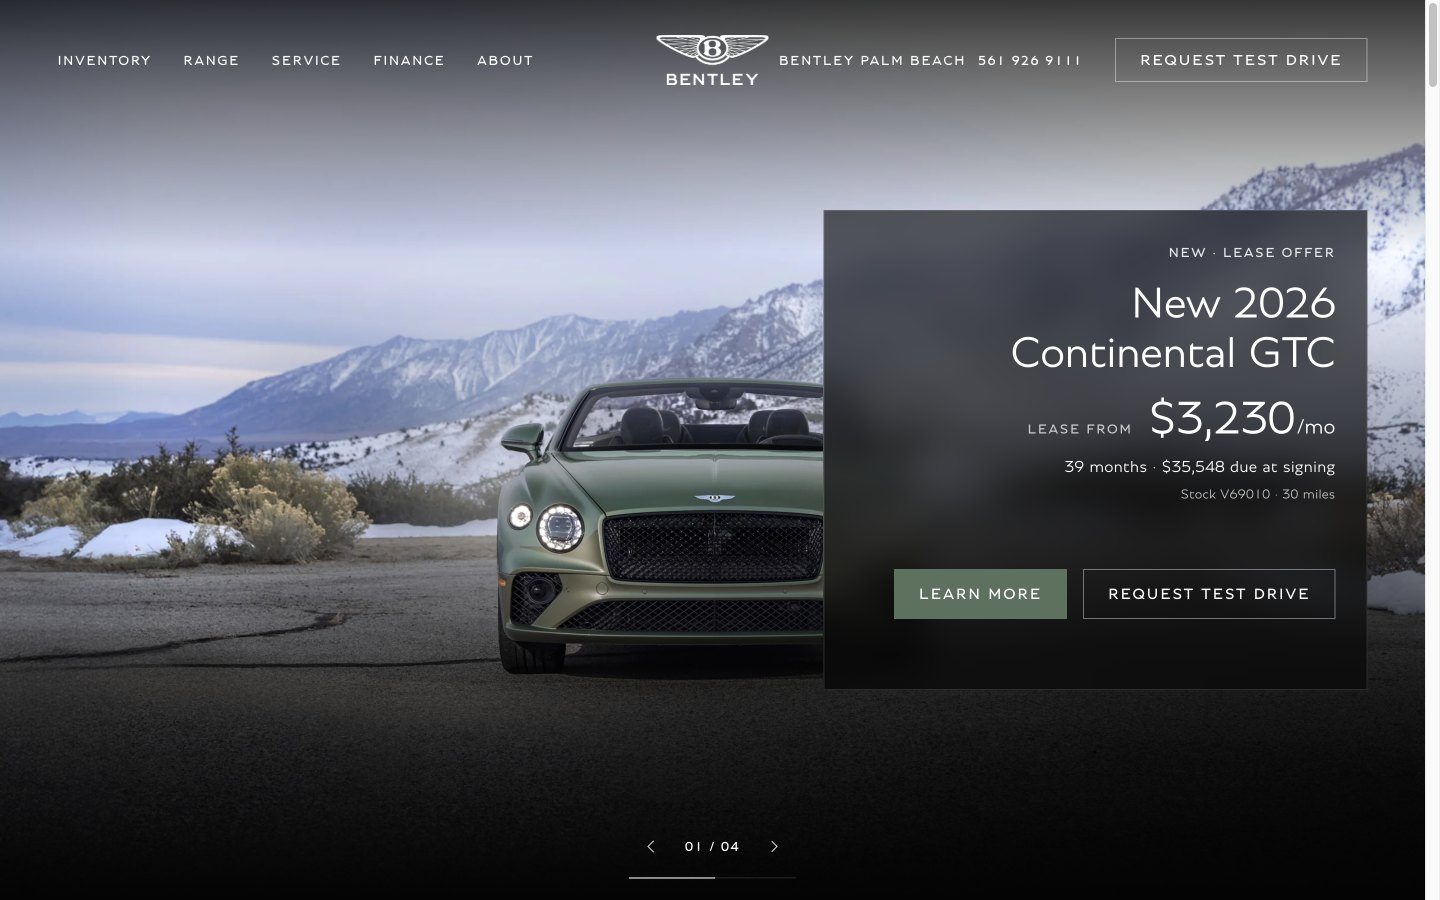
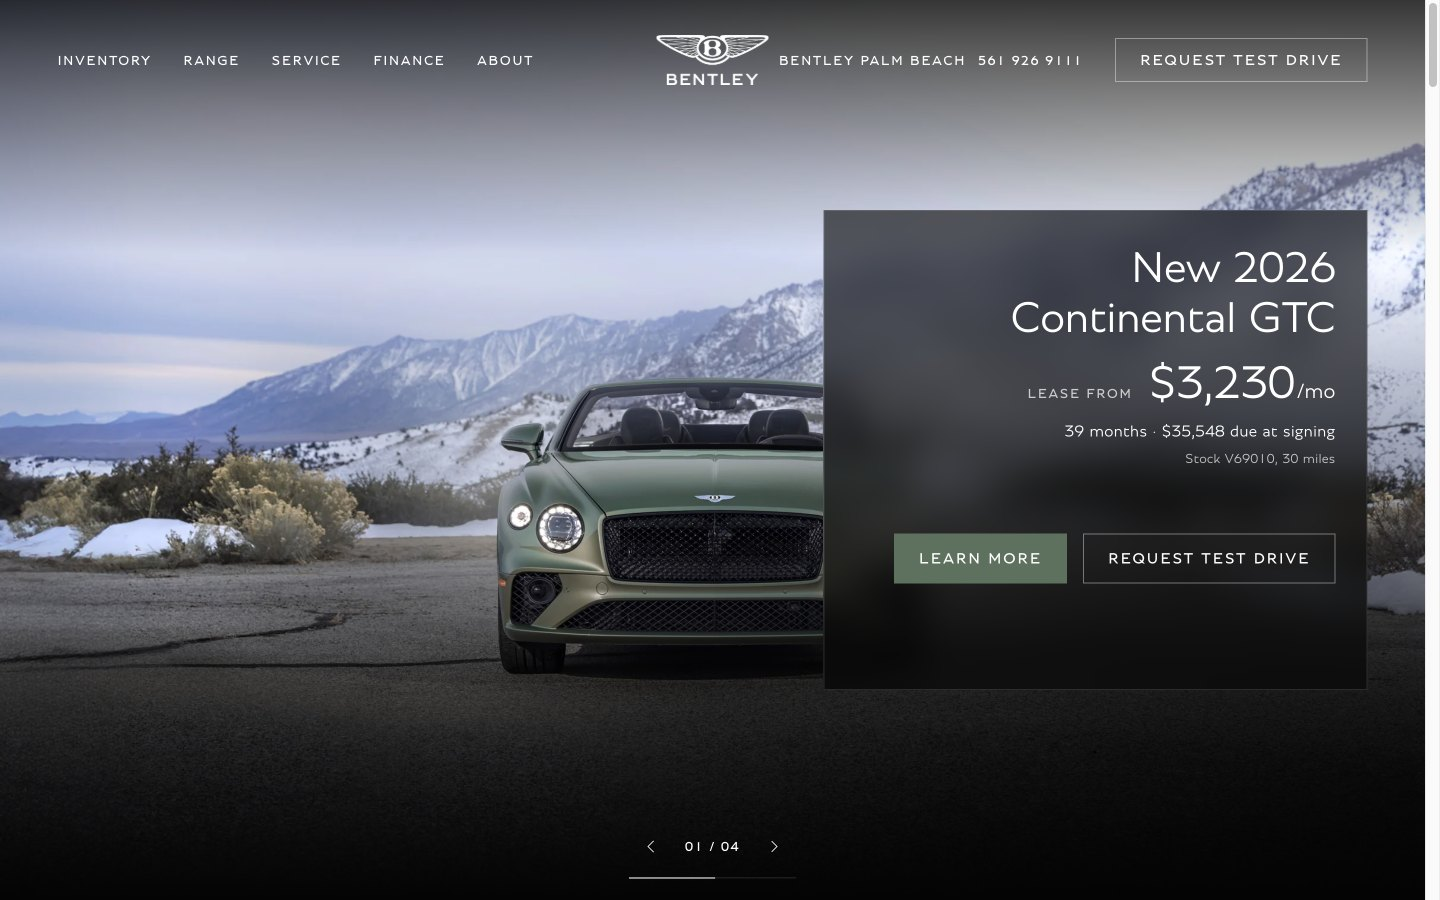
index4: taste-skill pass — eyebrows down to three, one dot per line, no dashes in labels; d4 stills recaptured

Changed region(s): [[0.6875, 0.28, 0.9375, 0.56], [0.5938, 0.5911, 0.9062, 0.7156]]

diff --git a/index4.html b/index4.html
@@ -3,14 +3,14 @@
 <head>
 <meta charset="utf-8">
 <meta name="viewport" content="width=device-width, initial-scale=1">
-<title>Bentley Palm Beach — Official Bentley Retailer, West Palm Beach</title>
+<title>Bentley Palm Beach, Official Bentley Retailer in West Palm Beach</title>
 <meta name="description" content="Bentley Palm Beach, the official Bentley retailer on Okeechobee Boulevard, West Palm Beach: Continental GT, Continental GT Convertible, Flying Spur and Bentayga, certified pre-owned, Bentley-trained service and genuine parts.">
 <meta name="theme-color" content="#040404">
 <link rel="preload" href="assets/fonts/Bentley-Light.woff2" as="font" type="font/woff2" crossorigin>
 <link rel="preload" href="assets/fonts/Bentley-Regular.woff2" as="font" type="font/woff2" crossorigin>
 <link rel="preload" href="assets/bm/2026/gtc-mountains.webp" as="image">
-<link rel="stylesheet" href="css/system.css?v=20260919o">
-<link rel="stylesheet" href="css/index4.css?v=20260919o">
+<link rel="stylesheet" href="css/system.css?v=20260921b">
+<link rel="stylesheet" href="css/index4.css?v=20260921b">
 <script>
   /* Motion is opt-in from the first paint: if the script never arrives, or the
      visitor asked for less motion, the page is simply its finished composition. */
@@ -44,7 +44,7 @@
       </ul>
     </nav>
 
-    <a class="mh__mark" href="https://www.bramanbentleypalmbeach.com/" aria-label="Bentley Palm Beach — home">
+    <a class="mh__mark" href="https://www.bramanbentleypalmbeach.com/" aria-label="Bentley Palm Beach, home">
       <img src="assets/img/logo-negative.png" alt="Bentley" width="112" height="50">
     </a>
 
@@ -61,8 +61,8 @@
   <!-- 2 — the lit scene, in four slides. The retailer's current offers, the
        copy taken from its own banners, the photographs Bentley's; the fourth
        slide is the Torcal film. One crossfade; the visitor keeps the transport. -->
-  <section class="hero" id="top" data-reveal aria-roledescription="carousel" aria-label="Bentley Palm Beach — current offers">
-    <h1 class="sr-only">Bentley Palm Beach — Official Bentley Retailer, West Palm Beach</h1>
+  <section class="hero" id="top" data-reveal aria-roledescription="carousel" aria-label="Bentley Palm Beach, current offers">
+    <h1 class="sr-only">Bentley Palm Beach, Official Bentley Retailer in West Palm Beach</h1>
     <div class="hero__slides recede">
     <article class="slide is-active slide--offer slide--right slide--gtc" aria-roledescription="slide" aria-label="1 of 4">
       <div class="slide__field">
@@ -70,10 +70,9 @@
       </div>
       <div class="hero__lockup slide__lockup slide__lockup--glass">
         <div class="slide__glass box">
-        <p class="label step" style="--i:0">New · Lease offer</p>
         <h2 class="hero__title step" style="--i:1">New 2026<br>Continental GTC</h2>
         <p class="slide__lease step" style="--i:2"><span class="slide__from">Lease from</span><strong class="slide__per">$3,230<small>/mo</small></strong></p>
-        <p class="slide__terms step" style="--i:3">39 months · $35,548 due at signing<span class="slide__stock">Stock V69010 · 30 miles</span></p>
+        <p class="slide__terms step" style="--i:3">39 months · $35,548 due at signing<span class="slide__stock">Stock V69010, 30 miles</span></p>
         <div class="actions step" style="--i:4">
           <a class="btn" href="https://www.bramanbentleypalmbeach.com/search/new-continental-gtc-west-palm-beach-fl/?cy=33409&amp;md=4607&amp;tp=new">Learn more</a>
           <a class="btn btn--line" href="https://www.bramanbentleypalmbeach.com/schedule-new-vehicle-test-drive/">Request test drive</a>
@@ -87,10 +86,9 @@
       </div>
       <div class="hero__lockup slide__lockup slide__lockup--glass">
         <div class="slide__glass box">
-        <p class="label step" style="--i:0">New · Lease offer</p>
         <h2 class="hero__title step" style="--i:1">2026<br>Continental GT</h2>
         <p class="slide__lease step" style="--i:2"><span class="slide__from">Lease from</span><strong class="slide__per">$2,722<small>/mo</small></strong></p>
-        <p class="slide__terms step" style="--i:3">39 months · $32,141 due at signing<span class="slide__stock">Stock V67976 · 128 miles</span></p>
+        <p class="slide__terms step" style="--i:3">39 months · $32,141 due at signing<span class="slide__stock">Stock V67976, 128 miles</span></p>
         <div class="actions step" style="--i:4">
           <a class="btn" href="https://www.bramanbentleypalmbeach.com/search/new-continental-gt-west-palm-beach-fl/?cy=33409&amp;md=335&amp;tp=new">Learn more</a>
           <a class="btn btn--line" href="https://www.bramanbentleypalmbeach.com/schedule-new-vehicle-test-drive/">Request test drive</a>
@@ -104,10 +102,9 @@
       </div>
       <div class="hero__lockup slide__lockup slide__lockup--glass">
         <div class="slide__glass box">
-        <p class="label step" style="--i:0">New · Lease offer</p>
         <h2 class="hero__title step" style="--i:1">New 2026<br>Bentley Flying Spur</h2>
         <p class="slide__lease step" style="--i:2"><span class="slide__from">Lease from</span><strong class="slide__per">$2,622<small>/mo</small></strong></p>
-        <p class="slide__terms step" style="--i:3">39 months · $29,390 due at signing<span class="slide__stock">Stock V69319 · 30 miles</span></p>
+        <p class="slide__terms step" style="--i:3">39 months · $29,390 due at signing<span class="slide__stock">Stock V69319, 30 miles</span></p>
         <div class="actions step" style="--i:4">
           <a class="btn" href="https://www.bramanbentleypalmbeach.com/search/new-bentley-flying-spur-west-palm-beach-fl/?cy=33409&amp;md=2837&amp;tp=new">Learn more</a>
           <a class="btn btn--line" href="https://www.bramanbentleypalmbeach.com/schedule-new-vehicle-test-drive/">Request test drive</a>
@@ -120,7 +117,6 @@
         <video class="hero__img" muted loop playsinline preload="none" poster="assets/bm/2026/torcal-rear.webp" data-src="assets/bm/2026/torcal-hero.mp4" aria-label="The Bentley Torcal reveal film"></video>
       </div>
       <div class="hero__lockup slide__lockup">
-        <p class="label step" style="--i:0">Coming soon</p>
         <h2 class="hero__title step" style="--i:1">Torcal</h2>
         <p class="lead step" style="--i:2">Bentley's first electric masterpiece. Power meets timeless craftsmanship.</p>
         <div class="actions step" style="--i:3">
@@ -144,7 +140,6 @@
     <div class="page recede">
       <div class="head">
         <div class="head__main">
-          <p class="label step" style="--i:0">The range</p>
           <h2 class="h2 step" id="range-h" style="--i:1">Four model lines,<br>each built to order</h2>
         </div>
         <div class="head__aside">
@@ -194,7 +189,7 @@
        stage; a caption and nothing asked. The pause before the atelier. -->
   <section class="scene disp parallax" id="mulliner" data-reveal aria-labelledby="mul-h">
     <div class="scene__pic">
-      <img src="assets/bm/2026/gt-lineup.webp" alt="Five Continental GTs of the Bespoke Series by Mulliner on a dark stage — orange, green, blue, red and white — each with a contrasting stripe." width="2400" height="1292" loading="lazy" decoding="async">
+      <img src="assets/bm/2026/gt-lineup.webp" alt="Five Continental GTs of the Bespoke Series by Mulliner on a dark stage, orange, green, blue, red and white, each with a contrasting stripe." width="2400" height="1292" loading="lazy" decoding="async">
     </div>
     <div class="scene__body">
       <div class="scene__copy">
@@ -208,7 +203,6 @@
        cabin standing on its own at the right — nothing over the picture. -->
   <section class="split" id="commission" data-reveal aria-labelledby="com-h">
     <div class="split__copy">
-      <p class="label step" style="--i:0">Commissioning</p>
       <h2 class="h2 step" id="com-h" style="--i:1">Specified by you,<br>built in Crewe</h2>
       <p class="body step" style="--i:2">Hide, veneer, stitching and the Mulliner options are decided with our specialists here, and the same team is with you from the first sketch to handover.</p>
       <div class="actions step" style="--i:3">
@@ -234,7 +228,7 @@
         <div class="plate po-plate box">
           <p class="label step" style="--i:0"><span>Certified Pre-Owned</span><span class="po-count"><span class="po-now">01</span> / 04</span></p>
           <h2 class="h2 step" style="--i:1" id="po-h">2025 Bentayga V8</h2>
-          <p class="po-facts step" style="--i:2">Marlin over Linen · 3,548 miles · Stock VC-P35187</p>
+          <p class="po-facts step" style="--i:2">Marlin over Linen · 3,548 miles<br>Stock VC-P35187</p>
           <p class="po-price step" style="--i:3">$239,603</p>
           <p class="body step" style="--i:4">Inspected and prepared by Bentley-trained technicians to the factory checklist; history recorded in full.</p>
           <div class="actions step" style="--i:5">
@@ -248,7 +242,7 @@
         <div class="plate po-plate box">
           <p class="label step" style="--i:0"><span>Certified Pre-Owned</span><span class="po-count"><span class="po-now">02</span> / 04</span></p>
           <h2 class="h2 step" style="--i:1" >2026 Continental GT V8</h2>
-          <p class="po-facts step" style="--i:2">Dark Sapphire over Linen · 285 miles · Stock V67976</p>
+          <p class="po-facts step" style="--i:2">Dark Sapphire over Linen · 285 miles<br>Stock V67976</p>
           <p class="po-price step" style="--i:3">$278,603</p>
           <p class="body step" style="--i:4">Inspected and prepared by Bentley-trained technicians to the factory checklist; history recorded in full.</p>
           <div class="actions step" style="--i:5">
@@ -262,7 +256,7 @@
         <div class="plate po-plate box">
           <p class="label step" style="--i:0"><span>Certified Pre-Owned</span><span class="po-count"><span class="po-now">03</span> / 04</span></p>
           <h2 class="h2 step" style="--i:1" >2026 Flying Spur</h2>
-          <p class="po-facts step" style="--i:2">Moonbeam over Linen · 349 miles · Stock VC-P35636</p>
+          <p class="po-facts step" style="--i:2">Moonbeam over Linen · 349 miles<br>Stock VC-P35636</p>
           <p class="po-price step" style="--i:3">$293,738</p>
           <p class="body step" style="--i:4">Inspected and prepared by Bentley-trained technicians to the factory checklist; history recorded in full.</p>
           <div class="actions step" style="--i:5">
@@ -276,7 +270,7 @@
         <div class="plate po-plate box">
           <p class="label step" style="--i:0"><span>Certified Pre-Owned</span><span class="po-count"><span class="po-now">04</span> / 04</span></p>
           <h2 class="h2 step" style="--i:1" >2024 Continental GTC Edition 8</h2>
-          <p class="po-facts step" style="--i:2">Magnolia over Magnolia · 12,645 miles · Stock VC-30281A</p>
+          <p class="po-facts step" style="--i:2">Magnolia over Magnolia · 12,645 miles<br>Stock VC-30281A</p>
           <p class="po-price step" style="--i:3">$259,603</p>
           <p class="body step" style="--i:4">Inspected and prepared by Bentley-trained technicians to the factory checklist; history recorded in full.</p>
           <div class="actions step" style="--i:5">
@@ -317,8 +311,7 @@
       <div class="page">
         <div class="head">
           <div class="head__main">
-            <p class="label step" style="--i:0">Inventory</p>
-            <h2 class="h2 step" id="stock-h" style="--i:1">New Bentley<br>in stock</h2>
+              <h2 class="h2 step" id="stock-h" style="--i:1">New Bentley<br>in stock</h2>
           </div>
           <div class="head__aside stock__aside">
             <p class="body step" style="--i:2">Continental GT, Flying Spur and Bentayga, each built to a specification already settled. Every one can be seen, driven and delivered from Okeechobee Boulevard.</p>
@@ -333,12 +326,12 @@
         </div>
       </div>
 
-      <ul class="stock__rail" tabindex="0" aria-label="New Bentley in stock — drag or scroll sideways">
+      <ul class="stock__rail" tabindex="0" aria-label="New Bentley in stock; drag or scroll sideways">
         <li class="stock__car step" style="--i:2">
           <a href="https://www.bramanbentleypalmbeach.com/auto/new-2026-bentley-continental-gt-s/121718000/" draggable="false">
             <img src="assets17/img/stk-2.webp" alt="Continental GT S, front three-quarter, on a pale studio ground." width="1200" height="800" loading="lazy" decoding="async" draggable="false">
             <span class="stock__row"><span class="stock__name">New 2026 Continental GT S</span><span class="stock__price">$380,788</span></span>
-            <span class="stock__facts">Jetstream over Linen · 30 miles · Stock V60065</span>
+            <span class="stock__facts">Jetstream over Linen · 30 miles<br>Stock V60065</span>
             <span class="link">View details<i aria-hidden="true"></i></span>
           </a>
         </li>
@@ -346,7 +339,7 @@
           <a href="https://www.bramanbentleypalmbeach.com/auto/new-2026-bentley-continental-gt-azure/119179388/" draggable="false">
             <img src="assets/bm/gt-s-media-1.jpg" alt="Continental GT, front three-quarter, in the studio." width="1920" height="1080" loading="lazy" decoding="async" draggable="false">
             <span class="stock__row"><span class="stock__name">New 2026 Continental GT Azure</span><span class="stock__price">$392,963</span></span>
-            <span class="stock__facts">Verdant over Linen · 30 miles · Stock V69245</span>
+            <span class="stock__facts">Verdant over Linen · 30 miles<br>Stock V69245</span>
             <span class="link">View details<i aria-hidden="true"></i></span>
           </a>
         </li>
@@ -354,7 +347,7 @@
           <a href="https://www.bramanbentleypalmbeach.com/auto/new-2026-bentley-continental-gt-mulliner/118851488/" draggable="false">
             <img src="assets17/img/stk-4.webp" alt="Continental GT, front three-quarter against a pale wall." width="1200" height="800" loading="lazy" decoding="async" draggable="false">
             <span class="stock__row"><span class="stock__name">New 2026 Continental GT Mulliner</span><span class="stock__price">$430,878</span></span>
-            <span class="stock__facts">Glacier White over Linen · 30 miles · Stock V68412</span>
+            <span class="stock__facts">Glacier White over Linen · 30 miles<br>Stock V68412</span>
             <span class="link">View details<i aria-hidden="true"></i></span>
           </a>
         </li>
@@ -362,7 +355,7 @@
           <a href="https://www.bramanbentleypalmbeach.com/auto/new-2026-bentley-flying-spur-v8/121718048/" draggable="false">
             <img src="assets/bm/rail-flying-spur.jpg" alt="Flying Spur, front three-quarter, in the studio." width="1100" height="2200" loading="lazy" decoding="async" draggable="false">
             <span class="stock__row"><span class="stock__name">New 2026 Flying Spur V8</span><span class="stock__price">$288,713</span></span>
-            <span class="stock__facts">Dark Sapphire over Linen · 30 miles · Stock V60190</span>
+            <span class="stock__facts">Dark Sapphire over Linen · 30 miles<br>Stock V60190</span>
             <span class="link">View details<i aria-hidden="true"></i></span>
           </a>
         </li>
@@ -370,7 +363,7 @@
           <a href="https://www.bramanbentleypalmbeach.com/auto/new-2026-bentley-bentayga-azure/121561742/" draggable="false">
             <img src="assets/bm/rail-bentayga.jpg" alt="Bentayga in green, front three-quarter, in the studio." width="1100" height="2200" loading="lazy" decoding="async" draggable="false">
             <span class="stock__row"><span class="stock__name">New 2026 Bentayga Azure</span><span class="stock__price">$297,068</span></span>
-            <span class="stock__facts">Verdant over Linen · 30 miles · Stock V63986</span>
+            <span class="stock__facts">Verdant over Linen · 30 miles<br>Stock V63986</span>
             <span class="link">View details<i aria-hidden="true"></i></span>
           </a>
         </li>
@@ -378,7 +371,7 @@
           <a href="https://www.bramanbentleypalmbeach.com/auto/new-2026-bentley-continental-gt-v8/118851437/" draggable="false">
             <img src="assets17/img/stk-3.webp" alt="Continental GT in side view on a pale studio ground." width="1200" height="800" loading="lazy" decoding="async" draggable="false">
             <span class="stock__row"><span class="stock__name">New 2026 Continental GT V8</span><span class="stock__price">$357,188</span></span>
-            <span class="stock__facts">Dark Sapphire over Linen · 30 miles · Stock V68522</span>
+            <span class="stock__facts">Dark Sapphire over Linen · 30 miles<br>Stock V68522</span>
             <span class="link">View details<i aria-hidden="true"></i></span>
           </a>
         </li>
@@ -386,7 +379,7 @@
           <a href="https://www.bramanbentleypalmbeach.com/auto/new-2026-bentley-continental-gt-mulliner/120495926/" draggable="false">
             <img src="assets/bm/gt-s-front-16x9.jpg" alt="Continental GT, front, in the studio." width="2560" height="1440" loading="lazy" decoding="async" draggable="false">
             <span class="stock__row"><span class="stock__name">New 2026 Continental GT Mulliner</span><span class="stock__price">$433,038</span></span>
-            <span class="stock__facts">Jetstream over Linen · 30 miles · Stock V69802</span>
+            <span class="stock__facts">Jetstream over Linen · 30 miles<br>Stock V69802</span>
             <span class="link">View details<i aria-hidden="true"></i></span>
           </a>
         </li>
@@ -394,7 +387,7 @@
           <a href="https://www.bramanbentleypalmbeach.com/auto/new-2026-bentley-continental-gt-s/121718069/" draggable="false">
             <img src="assets/bm/gt-s-side.jpg" alt="Continental GT S in full side profile, in the studio." width="1920" height="1080" loading="lazy" decoding="async" draggable="false">
             <span class="stock__row"><span class="stock__name">New 2026 Continental GT S</span><span class="stock__price">$377,973</span></span>
-            <span class="stock__facts">Gravity Grey over Linen · 30 miles · Stock V60107</span>
+            <span class="stock__facts">Gravity Grey over Linen · 30 miles<br>Stock V60107</span>
             <span class="link">View details<i aria-hidden="true"></i></span>
           </a>
         </li>
@@ -409,7 +402,6 @@
       <img src="assets/bm/2026/lamp-spur.webp" alt="The tail lamp of a Flying Spur lit on a black car, its three curved elements glowing red." width="2400" height="1800" loading="lazy" decoding="async">
     </div>
     <div class="split__copy">
-      <p class="label step" style="--i:0">Ownership</p>
       <h2 class="h2 step" id="care-h" style="--i:1">Expert care<br>for your Bentley</h2>
       <p class="body step" style="--i:2">Bentley-trained technicians, genuine parts fitted by the department that already holds your car's specification, and a courtesy car arranged for the duration.</p>
       <dl class="record record--short step" style="--i:3">
@@ -434,7 +426,6 @@
         </div>
       </div>
       <div class="retailer__copy">
-        <p class="label step" style="--i:0">The retailer</p>
         <h2 class="h2 step" id="ret-h" style="--i:1">Okeechobee Boulevard,<br>West Palm Beach</h2>
         <p class="body step" style="--i:2">The showroom serves West Palm Beach, Palm Beach Gardens, Jupiter, Wellington and Boca Raton, and the same team looks after a motor car for as long as it is owned.</p>
 
@@ -464,7 +455,7 @@
   <div class="page">
 
     <div class="close__crown">
-      <a href="https://www.bramanbentleypalmbeach.com/" aria-label="Bentley Palm Beach — home">
+      <a href="https://www.bramanbentleypalmbeach.com/" aria-label="Bentley Palm Beach, home">
         <img src="assets/img/logo-negative.png" alt="Bentley" width="108" height="49" loading="lazy">
       </a>
       <p>Bentley Palm Beach is an official Bentley retailer,<br>at 2801 Okeechobee Boulevard, West Palm Beach, Florida.</p>
@@ -519,14 +510,14 @@
     </div>
 
     <div class="close__legal">
-      <address>Bentley Palm Beach · 2801 Okeechobee Boulevard, West Palm Beach, Florida 33409 · <a href="tel:+15619269111">561 926 9111</a></address>
+      <address>Bentley Palm Beach, 2801 Okeechobee Boulevard, West Palm Beach, Florida 33409 · <a href="tel:+15619269111">561 926 9111</a></address>
       <ul>
         <li><a href="https://www.bramanbentleypalmbeach.com/privacy-policy/">Privacy Policy</a></li>
         <li><a href="https://www.bramanbentleypalmbeach.com/terms-and-conditions/">Terms and Conditions</a></li>
         <li><a href="https://www.bramanbentleypalmbeach.com/cookie-policy/">Cookie Policy</a></li>
         <li><a href="https://www.bramanbentleypalmbeach.com/accessibility/">Accessibility</a></li>
       </ul>
-      <div>© 2026 Bentley Palm Beach · Powered by All Auto Network</div>
+      <div>© 2026 Bentley Palm Beach. Powered by All Auto Network</div>
     </div>
 
   </div>
@@ -536,6 +527,6 @@
   <svg width="16" height="16" viewBox="0 0 16 16" fill="none" aria-hidden="true"><path d="M8 13.5V2.5m0 0L3 7.5m5-5 5 5" stroke="currentColor" stroke-width="1.25" stroke-linecap="round" stroke-linejoin="round"/></svg>
 </a>
 
-<script src="js/index4.js?v=20260919o" defer></script>
+<script src="js/index4.js?v=20260921b" defer></script>
 </body>
 </html>
